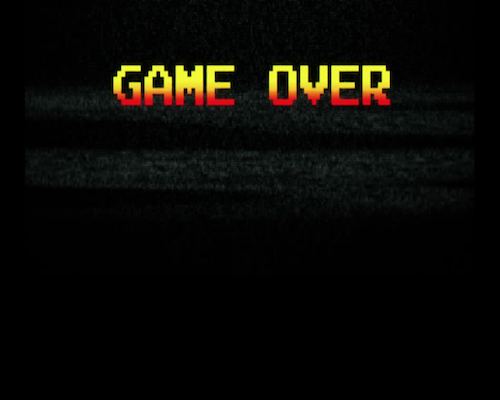
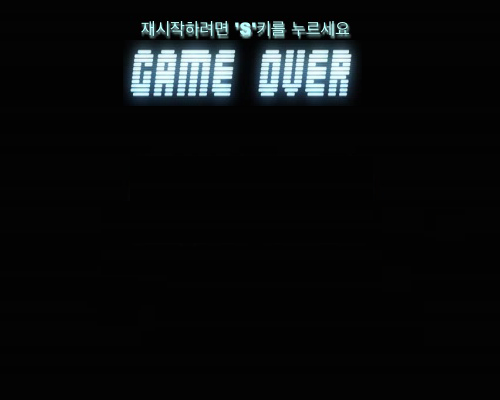
modify gameScoreand change bg3

diff --git a/PL_TeamProject.py b/PL_TeamProject.py
@@ -93,7 +93,7 @@ finish = False
 while not finish:
     if gameInitCheck == False: #게임 초기화 체크용
 
-        gameOverTimeCheck = False                                   # 종료시 게임시간 체크
+        gameScoreCheck = False                                      # 종료시 게임점수 체크
         makeEnemyCheck = False                                      # 처음에 2페이지 넘어가면 한번만 생성해주기위해서 판단하는 변수
         enemyStage = 1                                              # 새로 등장하는 적 개체판단용도
         gameStartTimeCheck = False                                  # 게임 시작 저장용
@@ -107,6 +107,8 @@ while not finish:
         missileCheck = True                                         # 미사일 계속 발생안되게 만드는 것
         gameInitCheck = True                                        # 게임 초기화 설정용도
         minEnemyCount = 5                                           # 처음 적 개체 미니멈 수
+        gameScore = 0                                               # 게임 스코어
+
 
     for event in pygame.event.get():
         if event.type == pygame.QUIT:
@@ -184,15 +186,16 @@ while not finish:
                     collision_sound.play()
                     missileList.remove(m)
                     enemyList.remove(e)
+                    gameScore += 1
 
     elif page == 3:  # 엔딩 화면
         function.show_img(game_screen, "picture/bg3.png", 0, 0)     # 배경 설정
 
-        #게임 시간 체크
-        if gameOverTimeCheck == False:
-            gameOverTime = gameTime
-            gameOverTimeCheck = True
-            gameResult.append(gameOverTime)
+        #게임 스코어
+        if gameScoreCheck == False:
+            gameOverScore = gameScore
+            gameResult.append(gameOverScore)
+            gameScoreCheck = True
 
         function.show_result(game_screen, widthSize, heightSize, gameResult)
         if pressed[pygame.K_s]:            gameInitCheck = False
